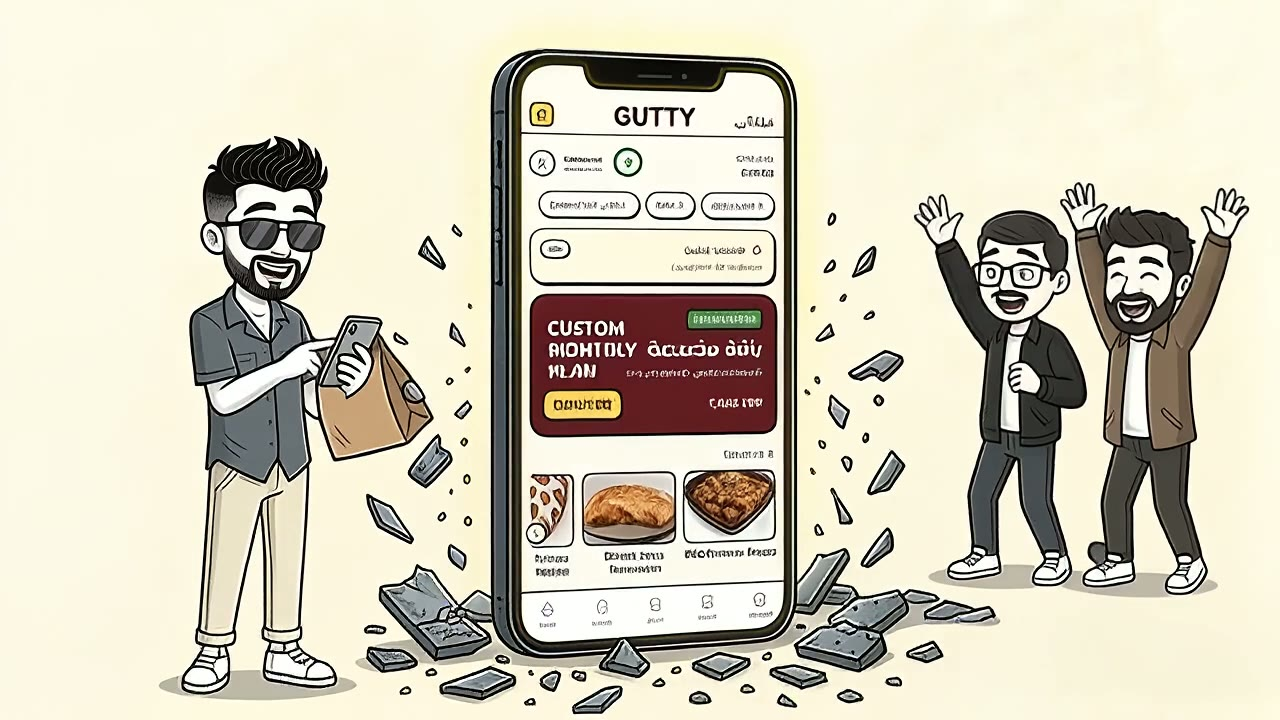
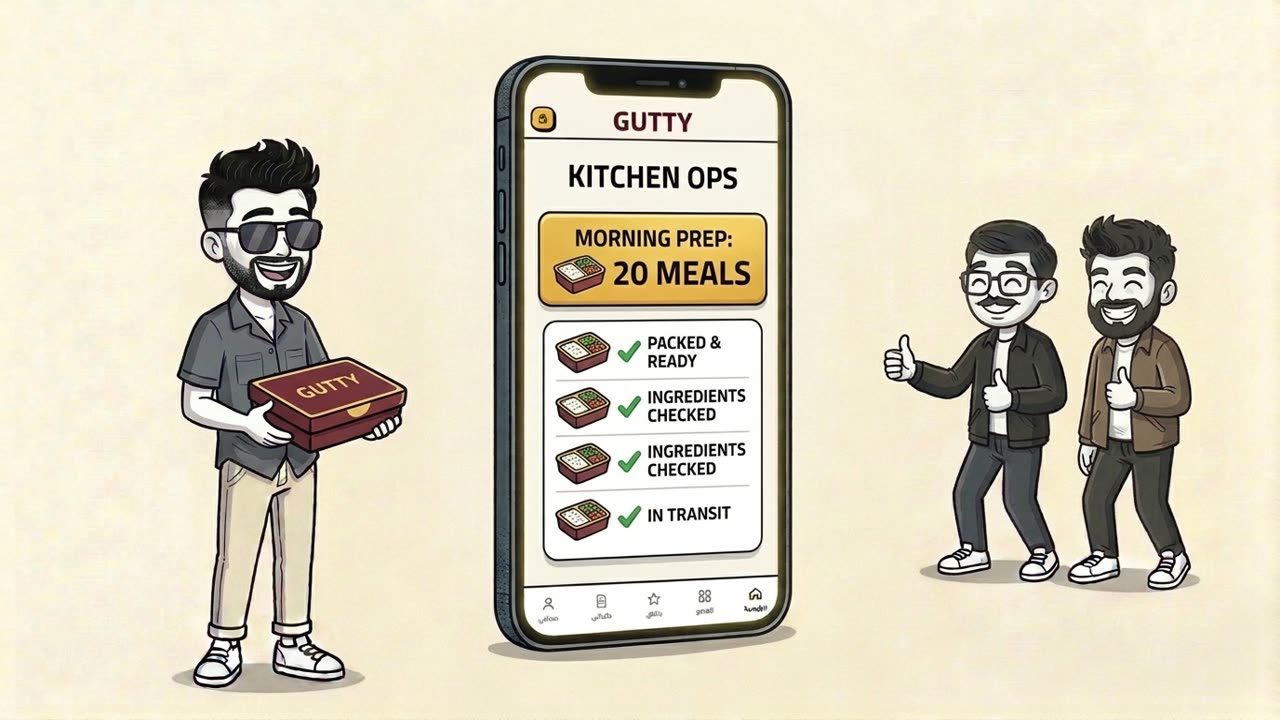
new poster, tappable button copy, stacked cheat list

diff --git a/index.html b/index.html
@@ -45,8 +45,12 @@
       src="gutty_story_full_720p.mp4" style="width:100%;display:block"></video>
   </div>
 
-  <a class="cta" id="demoBtn" href="app.html">افتح سيستم Gutty وجرّبه بإيدك دلوقتي ←</a>
-  <p class="cheat">جوة اللينك: ١. اطلب أوردر في ثواني · ٢. صمّم باقة شهرية على مزاجك · ٣. افتح "لوحة التحكم" وشوف تحضير المطبخ</p>
+  <a class="cta" id="demoBtn" href="app.html">دوس هنا — جرّب سيستم Gutty بنفسك 👆</a>
+  <div class="cheat">
+    <p>١. اطلب أوردر في ثواني</p>
+    <p>٢. صمّم باقة شهرية على مزاجك</p>
+    <p>٣. افتح "لوحة التحكم" وشوف تحضير المطبخ</p>
+  </div>
 
   <p class="sign">لو شايف إن ده مكان Gutty الطبيعي.. <a id="waBtn" href="https://wa.me/201205344493?text=%D9%85%D8%B3%D8%A7%D8%A1%20%D8%A7%D9%84%D8%AE%D9%8A%D8%B1%20%D9%8A%D8%A7%20%D9%85%D8%AD%D9%85%D8%AF%D8%8C%20%D8%B4%D9%88%D9%81%D9%86%D8%A7%20%D9%81%D9%8A%D8%AF%D9%8A%D9%88%20%D9%88%D8%B3%D9%8A%D8%B3%D8%AA%D9%85%20Gutty" target="_blank">كلمني على واتساب من هنا</a> ونكمّلها سوا.</p>
   <div class="sig"><span>مـحـمـد صـلاح</span></div>
